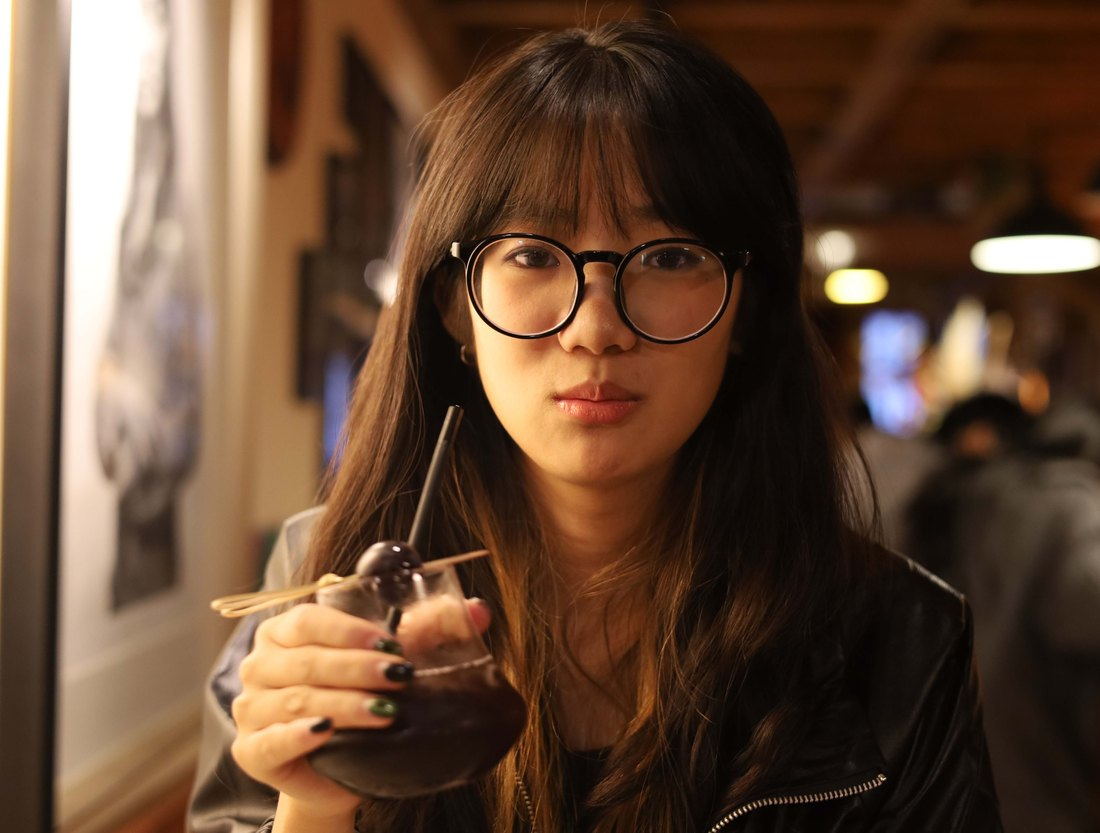
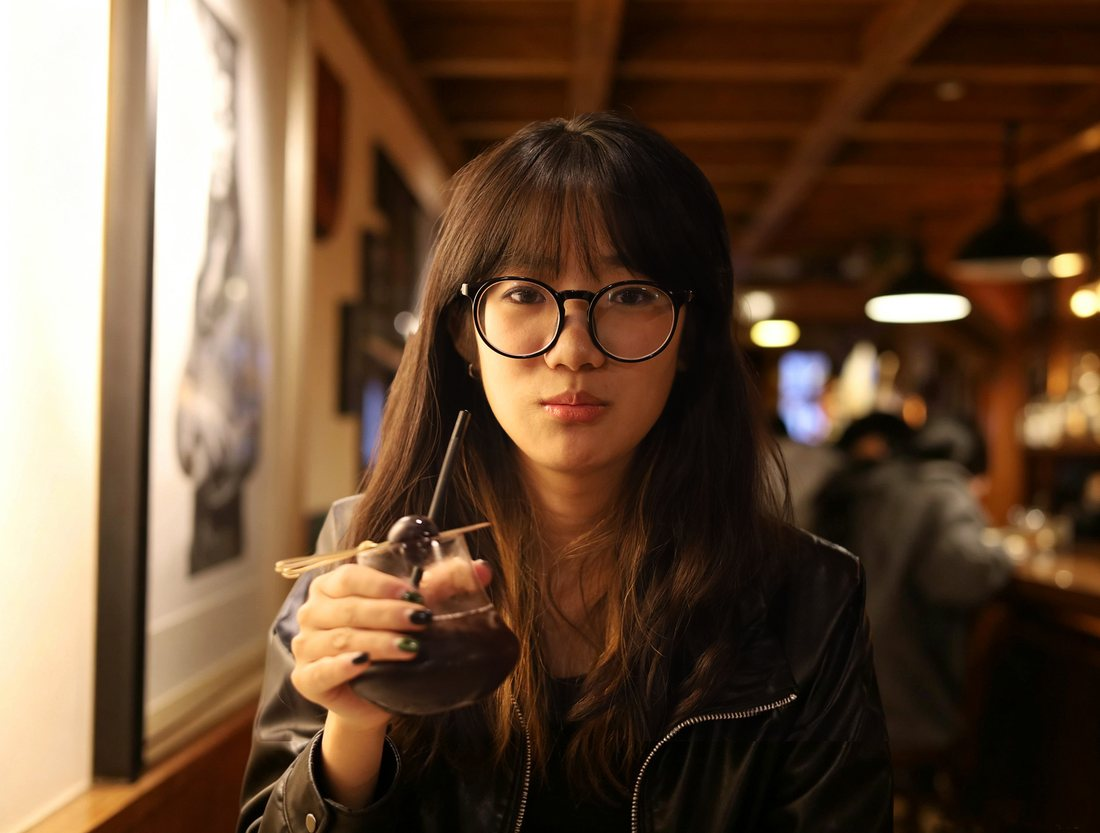
更换首页人像照片（生活照扩图版），并适配移动端构图

diff --git a/assets/css/style.css b/assets/css/style.css
@@ -621,18 +621,18 @@ button { font-family: inherit; }
   .lb__stage { inset: 60px 12px 112px; }
   /* 手机：照片收成下方一条横带（顶部让出导航），脸推到右侧且不被切 */
   .hero__bg { top: clamp(140px, 24vh, 230px); }
-  .hero__bg img { object-position: 24% 0%; }
+  .hero__bg img { object-position: 6% 0%; filter: brightness(1.34) saturate(1.06) contrast(1.03); }
   .hero__txt { max-width: 62%; }
   .hero__veil {
     background:
       linear-gradient(90deg,
         #0A0A0B 0%, #0A0A0B 24%,
         rgba(10,10,11,.95) 36%,
-        rgba(10,10,11,.86) 46%,
-        rgba(10,10,11,.58) 58%,
-        rgba(10,10,11,.30) 72%,
-        rgba(10,10,11,.20) 88%,
-        rgba(10,10,11,.30) 100%),
+        rgba(10,10,11,.82) 46%,
+        rgba(10,10,11,.44) 56%,
+        rgba(10,10,11,.20) 68%,
+        rgba(10,10,11,.07) 84%,
+        rgba(10,10,11,.22) 100%),
       linear-gradient(180deg,
         rgba(10,10,11,.14) 0%, rgba(10,10,11,0) 9%,
         rgba(10,10,11,0) 58%, rgba(10,10,11,.50) 82%, #0A0A0B 97%);
@@ -646,7 +646,8 @@ button { font-family: inherit; }
   }
   .hero__role span {
     padding: 7px 13px; border: 1px solid var(--line-2); border-radius: var(--r-pill);
-    background: rgba(255,255,255,.05); color: var(--text-2);
+    background: rgba(16,16,18,.55); color: var(--text-2);
+    -webkit-backdrop-filter: blur(10px); backdrop-filter: blur(10px);
   }
   .hero__role span + span::before { content: none; margin: 0; }
 }
